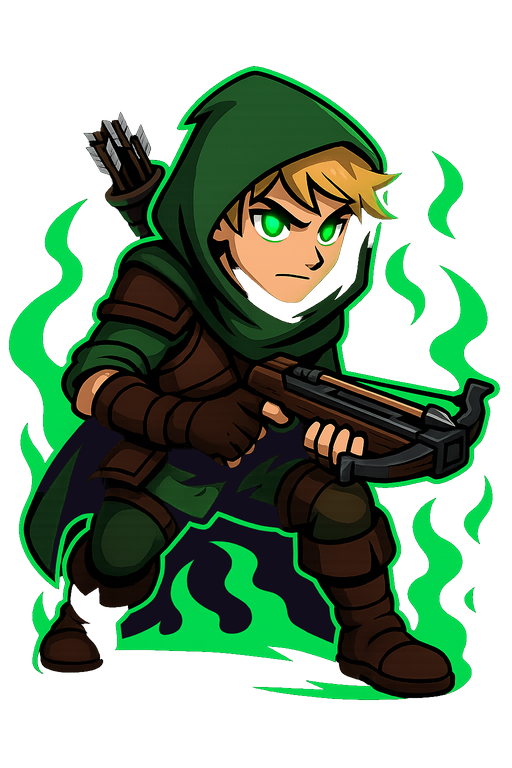
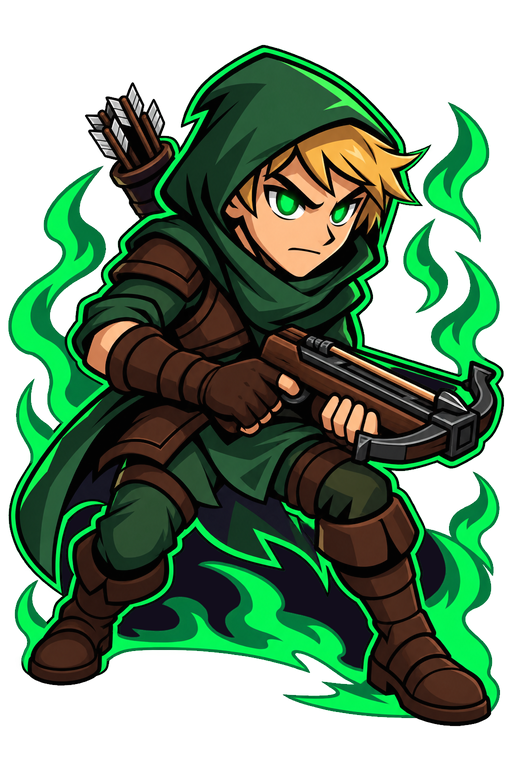
feat(art): regenerate playable characters with gpt-image-2.5-sunburst
Cards and in-game sprites of the five classes, all from the assassin as
the style reference. gen_image.py gets --model (default sunburst).

diff --git a/tools/art/gen_image.py b/tools/art/gen_image.py
@@ -1,9 +1,9 @@
-"""Generate one image with OpenAI gpt-image-1 (D50). Standard library only.
+"""Generate images with an OpenAI image model (D50; default gpt-image-2.5-sunburst). Standard library only.
 
 The API key is read from the OPENAI_API_KEY environment variable and is never
 written anywhere. Usage:
     python tools/art/gen_image.py --out <file.png> --prompt "..." [--style tools/art/style_block.txt]
-        [--size 1024x1024] [--quality medium] [--n 1] [--opaque] [--image ref.png ...]
+        [--size 1024x1024] [--quality medium] [--n 1] [--opaque] [--image ref.png ...] [--model name]
 With --image, the reference image(s) are edited instead (same character, new pose/version).
 With --n > 1 the files are named <file>_1.png, <file>_2.png, ...
 """
@@ -51,6 +51,7 @@ def main() -> int:
     parser.add_argument("--n", type=int, default=1)
     parser.add_argument("--opaque", action="store_true", help="keep a background (default: transparent)")
     parser.add_argument("--image", nargs="+", help="reference image(s) to edit (keeps the character's design)")
+    parser.add_argument("--model", default="gpt-image-2.5-sunburst")
     parser.add_argument("--mask", help="with --image: PNG, same size as the first image, transparent where it may change")
     args = parser.parse_args()
 
@@ -65,7 +66,7 @@ def main() -> int:
             prompt = f.read().strip() + "\n\n" + prompt
 
     body = {
-        "model": "gpt-image-1",
+        "model": args.model,
         "prompt": prompt,
         "size": args.size,
         "quality": args.quality,
@@ -74,7 +75,9 @@ def main() -> int:
         "background": "opaque" if args.opaque else "transparent",
     }
     if args.image:
-        body["input_fidelity"] = "high"
+        # Only gpt-image-1 accepts input_fidelity; newer models keep references by default.
+        if args.model == "gpt-image-1":
+            body["input_fidelity"] = "high"
         files = [("image[]", path) for path in args.image]
         if args.mask:
             files.append(("mask", args.mask))

diff --git a/docs/design/art-bible.md b/docs/design/art-bible.md
@@ -227,7 +227,7 @@ Nommage :
 - **Ne jamais renommer un id de contenu** (sauvegardes) : on change le visuel et la clé de nom affichée, pas l'id.
 
 Pipeline :
-1. `python tools/art/gen_image.py` (gpt-image-1, `--style`, `--image` pour la cohérence d'un perso, fond transparent).
+1. `python tools/art/gen_image.py` (modèle **`gpt-image-2.5-sunburst`** par défaut depuis le 2026-10-04, `--model` pour en changer ; `--style`, `--image` pour la cohérence d'un perso, fond transparent). Puis **toujours** `tools/art/fill_alpha_holes.gd` sur l'image retenue (ombres et auras semi-transparentes à l'intérieur du perso).
 2. `tools/art/prepare_ai_sprite.gd` : 1 image → idle 6 + walk 8 images (respiration/sautillement procéduraux + ombre au sol).
 3. Entrée dans `tools/sprites/sprites.json` : `src`, `height`, `"glow": "#000000"` (pas de halo néon pour les sprites IA), `"elite": true` pour les monstres.
 4. `powershell -ExecutionPolicy Bypass -File tools/bake_sprites.ps1` → atlas unique `assets/sprites/atlas.png`.
@@ -252,6 +252,7 @@ Checklist de génération :
 - [ ] Aperçu rapide de la planche : `tools/art/preview_sheet.gd -- --out=<png> --id=<id>`.
 
 Leçons IA (règles) :
+- Références : la carte de l'assassin (`art_source/ai/assassin_card.png`) est la référence de style des cartes ; son sprite (`art_source/ai/assassin.png`) celle des sprites. Nouveau perso = sa carte (1re image) + la référence de style (2e image).
 - L'IA rate souvent l'orientation des lames et les prises → toujours vérifier mains et armes.
 - Les retouches masquées (`--mask`) sur image transparente échouent (boîte noire) → retouche par référence complète, sans masque.
 - Les retouches successives dégradent le détail → toujours repartir de **la meilleure image d'origine**, jamais enchaîner les retouches.
